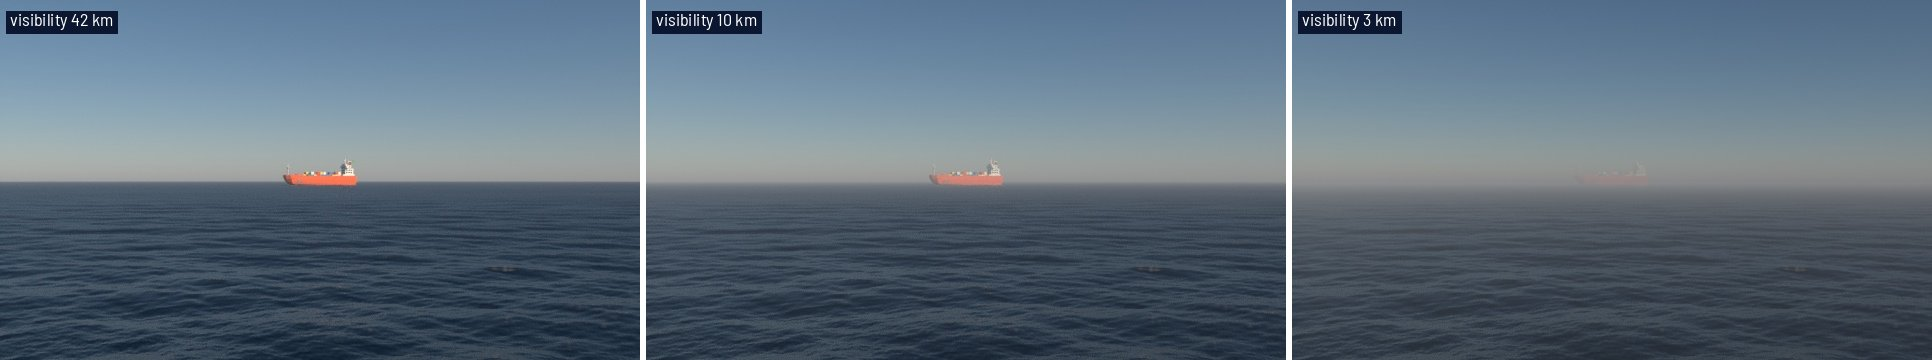
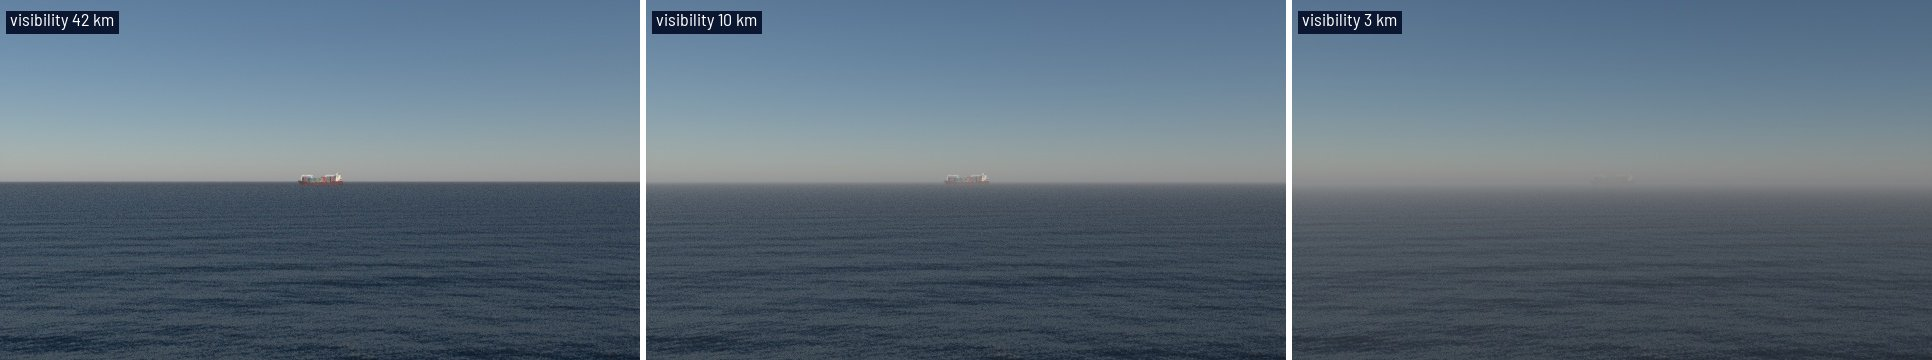
feat: the multipurpose freighter replaces the low-poly container ship
The flat-shaded Poly container ship was the first asset and the baseline's
target. The textured multipurpose freighter takes its place in every
scenario, preset, doc and test, and the hero and primer figures are
re-rendered with it.

The loop test now keys the frame after the last and checks every channel
is back at its first value, instead of asking the seam to bend no more
than any other frame, which a periodic curve can do by chance. The hero
keeps a long label inside its frame.

diff --git a/tests/test_scene.py b/tests/test_scene.py
@@ -17,7 +17,16 @@ from mathutils import Vector
 from seascape import blend, lwir, scene, sea, waves
 from seascape.assets import Buoy, Debris, Hull, manifest
 from seascape.calibration import CameraCalibration
-from seascape.config import Band, Mount, Object, Rig, Scenario, load, substream
+from seascape.config import (
+    Band,
+    Mount,
+    Object,
+    Outputs,
+    Rig,
+    Scenario,
+    load,
+    substream,
+)
 from tests.scenarios import (
     BASELINE,
     DRIFTING,
@@ -542,10 +551,10 @@ def test_the_far_clip_clears_a_hull_down_target() -> None:
     scenario = variant(
         rig={"height_m": 5.0},
         cameras={"eo": {"hfov_deg": 2.0, "width_px": 960, "height_px": 540}},
-        objects=[preset_target("container_ship", range_m)],
+        objects=[preset_target("multipurpose_freighter", range_m)],
     )
     built = scene.build(scenario, "eo")
-    (anchor,) = built.targets["container_ship"]
+    (anchor,) = built.targets["multipurpose_freighter"]
     corners = scene._corners(scene._meshes([anchor]))
     top_m = max(c.z for c in corners) - anchor.matrix_world.translation.z
     k = scenario.sea.refraction_k
@@ -1272,21 +1281,29 @@ class TestDrifting:
                 (pitch, -roll), abs=1e-5
             )
 
-    def test_a_loop_runs_from_its_last_frame_into_its_first_like_any_other(
-        self,
-    ) -> None:
-        """Wrapped round, no channel bends at the seam more than anywhere else."""
-        channels = dict(keyed())
 
-        assert len(channels) == 10, (
-            "the target's xyz, pitch, roll; the ownship's pitch, roll, heave; "
-            "the sea's cos, sin"
-        )
-        for name, values in channels.items():
-            bend = np.abs(np.diff(np.append(values, values[:2]), 2))
-            # A few ulps: F-curves are float32.
-            ulp = np.spacing(np.float32(np.abs(values).max()))
-            assert bend[-2:].max() <= bend[:-2].max() + 4 * ulp, name
+def test_a_loop_keyed_one_frame_past_its_end_is_back_at_its_first() -> None:
+    """The frame after the last, which a loop plays as frame 0, keyed for real."""
+    outputs = TestDrifting.SCENARIO.outputs
+    times_s, span_s = outputs.times_s, outputs.span_s
+    with pytest.MonkeyPatch.context() as patch:
+        patch.setattr(Outputs, "times_s", property(lambda _: [*times_s, span_s]))
+        patch.setattr(Outputs, "span_s", property(lambda _: span_s))
+        scene.build(TestDrifting.SCENARIO)
+
+    channels = dict(keyed())
+
+    assert len(channels) == 10, (
+        "the target's xyz, pitch, roll; the ownship's pitch, roll, heave; "
+        "the sea's cos, sin"
+    )
+    # A few ulps: F-curves are float32.
+    unclosed = [
+        name
+        for name, values in channels.items()
+        if abs(values[-1] - values[0]) > 4 * np.spacing(np.float32(abs(values).max()))
+    ]
+    assert unclosed == []
 
 
 class TestWakes:
@@ -1300,7 +1317,9 @@ class TestWakes:
         assert "wake_normal" in tree.nodes
 
     def test_a_slow_ship_s_arms_go_unseen_and_unbuilt(self) -> None:
-        tree = self._built(preset_target("container_ship", 2000.0, speed_mps=5.0))
+        tree = self._built(
+            preset_target("multipurpose_freighter", 2000.0, speed_mps=5.0)
+        )
         assert "sea_foam" in bpy.data.images
         assert "wake_normal" not in tree.nodes
 

diff --git a/tests/test_config.py b/tests/test_config.py
@@ -179,7 +179,7 @@ def test_a_bad_override_is_refused(override: str, error: type[Exception]) -> Non
 def test_objects_merge_their_preset(baseline) -> None:
     """A list-of-tables preset: asset and temperature from cfg, pose here."""
     obj = baseline.objects[0]
-    assert (obj.asset, obj.t_k) == ("container_ship", 295.0)
+    assert (obj.asset, obj.t_k) == ("multipurpose_freighter", 295.0)
     assert (obj.range_m, obj.bearing_deg) == (2000.0, 8.0)
 
 
@@ -496,13 +496,13 @@ def test_a_loop_rounds_each_period_to_a_whole_fraction_of_the_clip() -> None:
         (
             "drifting.toml",
             [
-                'targets = { asset = "container_ship", count = 2, range_m = 900.0,'
-                " bearing_deg = [-5.0, 5.0], speed_mps = 1.0 }"
+                'targets = { asset = "multipurpose_freighter", count = 2,'
+                " range_m = 900.0, bearing_deg = [-5.0, 5.0], speed_mps = 1.0 }"
             ],
             "drift",
         ),
         ("drifting.toml", ["outputs.duration_s = 8"], "ownship.roll's 9.0 s"),
-        ("drifting.toml", ["outputs.duration_s = 20"], "container_ship drift"),
+        ("drifting.toml", ["outputs.duration_s = 20"], "multipurpose_freighter drift"),
         ("port-pod-loop.toml", ["outputs.duration_s = 30"], "yacht orbit's 40.0 s"),
         (
             "drifting.toml",

diff --git a/docs/hero.py b/docs/hero.py
@@ -70,7 +70,9 @@ def frame(
         r = a["range_m"]
         dist = f"{r / 1000:.1f} km" if r >= 1000 else f"{r:.0f} m"
         text = f"{a['name']}  {dist}  {a['bearing_deg']:.1f}°"
-        tag(draw, (x0 + 4, y0 - 20), text, FOCUS_RED, 15)
+        # Inside the frame, whatever the name's length.
+        width = draw.textlength(text, font=font(15))
+        tag(draw, (min(x0 + 4, img.width - width - 8), y0 - 20), text, FOCUS_RED, 15)
     return captioned(img, caption)
 
 

diff --git a/tests/test_render_drift.py b/tests/test_render_drift.py
@@ -718,7 +718,7 @@ def _set_after(setting: str, built: bool) -> np.ndarray:
     scenario = variant(
         rig={"pitch_deg": -3.0},
         cameras={"eo": {"width_px": 320, "height_px": 180}},
-        objects=[preset_target("container_ship", 3e3)],
+        objects=[preset_target("multipurpose_freighter", 3e3)],
         outputs=outputs,
         sky=sky,
     )

diff --git a/docs/primer/figures.py b/docs/primer/figures.py
@@ -21,7 +21,7 @@ HERE = Path(__file__).parent
 PRIMER = HERE / "primer.toml"
 GAP_PX = 6
 SHIP = (
-    '{ preset = "container_ship", range_m = %s, '
+    '{ preset = "multipurpose_freighter", range_m = %s, '
     "bearing_deg = 0.0, heading_deg = 250.0 }"
 )
 SUN_AHEAD = ["sky.sun_bearing_deg = 0.0", "sky.sun_elevation_deg = 12.0"]

diff --git a/docs/primer/README.md b/docs/primer/README.md
@@ -96,11 +96,11 @@ Blender only knows red, green and blue, so all of this is NumPy: emissivity from
 
 Two things happen as a ship gets farther away. The air scatters its light away and sky light in, so it fades into the sky:
 
-<p align="center"><img src="haze.jpg" alt="A container ship at 2 km with visibility 42, 10 and 3 km"></p>
+<p align="center"><img src="haze.jpg" alt="A freighter at 2 km with visibility 42, 10 and 3 km"></p>
 
 And the earth curves away under it. Past the horizon a ship sinks hull-down:
 
-<p align="center"><img src="horizon.jpg" alt="A container ship at 15, 30 and 40 km, seen from 30 m up"></p>
+<p align="center"><img src="horizon.jpg" alt="A freighter at 15, 30 and 40 km, seen from 30 m up"></p>
 
 <p align="center">
   <picture>
